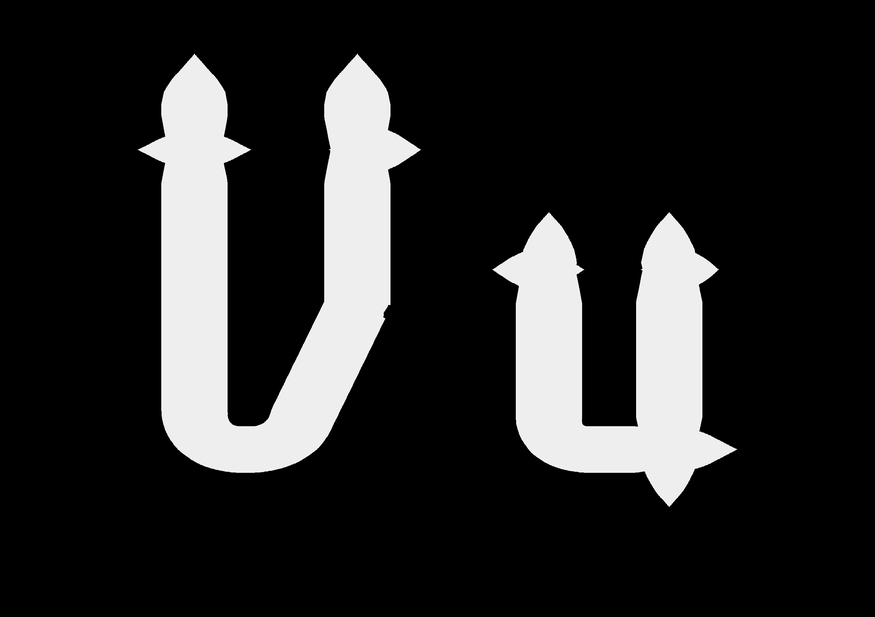
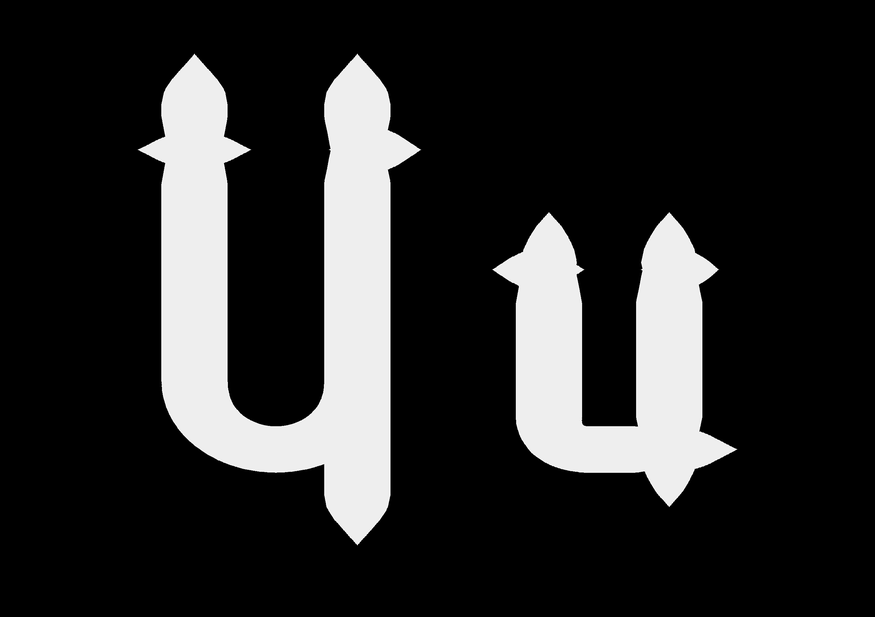
Fûstard 132 : U des graisses 700 et plus, panse ronde et fût qui traverse

Changed region(s): [[0.1851, 0.4927, 0.4629, 0.893]]

diff --git a/fustard-132/triche.py b/fustard-132/triche.py
@@ -5,7 +5,7 @@
 # 4. pointes plus courtes, proportionnées à l'épaisseur
 # 5. lettres élargies pour garder les contreformes ouvertes
 # 6. croisement en biais (< 40°) : le trait s'arrête dans l'autre, sans dépasser
-# 7. à partir de 700 : U, le fût s'arrête sur la diagonale ; u, fond plat qui traverse le fût
+# 7. à partir de 700 : U, panse ronde et fût qui traverse sous la ligne ; u, fond plat qui traverse le fût
 import sys, os, math
 _ICI = os.path.dirname(os.path.abspath(__file__))
 sys.path[:0] = [_ICI, os.path.join(_ICI, '..', 'jalousia')]
@@ -143,12 +143,10 @@ def couper_biais(sts, ov):
     return sts
 
 def U_gras(ov):
-    """7. U des graisses 700 et plus : la panse finit en diagonale sur le fût, le fût s'arrête là."""
-    S = techno.S; H = 1000.0; xr, x0 = 560.0, 360.0
-    yb = (xr - x0) * techno.T67
-    panse = S((100, H + ov), (100, 0, 130), (x0, 0, 150), (xr, yb)); panse['caps'][1] = 'B'
-    fut = S((xr, H + ov), (xr, yb)); fut['caps'][1] = 'B'
-    return [S((-60, H), (260, H)), S((xr - 80, H), (xr + 180, H)), panse, fut]
+    """7. U des graisses 700 et plus : panse ronde, le fût descend sous la ligne et la traverse."""
+    S = techno.S; H = 1000.0; xr = 560.0
+    panse = S((100, H + ov), (100, 0, 230), (xr, 0, 230), (xr, 520)); panse['caps'][1] = 'B'
+    return [S((-60, H), (260, H)), S((xr - 80, H), (xr + 180, H)), panse, S((xr, H + ov), (xr, -ov))]
 
 def u_gras(ov):
     """7. u des graisses 700 et plus : fond plat qui traverse le fût, croix en bas à droite."""

diff --git a/fustard-132/README.md b/fustard-132/README.md
@@ -29,7 +29,7 @@ Même squelette que la Hairline, trait de 220 (22 % des capitales), croisements 
 4. **Pointes** : longues de 1,5 demi-épaisseur (fers de lance).
 5. **Largeur** : lettres élargies de 18 %.
 6. **Croisements en biais** (moins de 40°) : le trait s'arrête dans l'autre, sans dépasser.
-7. **À partir de 700** : U, le fût s'arrête sur la diagonale ; u, fond plat qui traverse le fût (croix en bas à droite).
+7. **À partir de 700** : U, panse ronde et fût qui descend sous la ligne en la traversant ; u, fond plat qui traverse le fût (croix en bas à droite).
 
 `python3 triche.py fustard-132-900.png` → `fustard-132-900.png`
 
